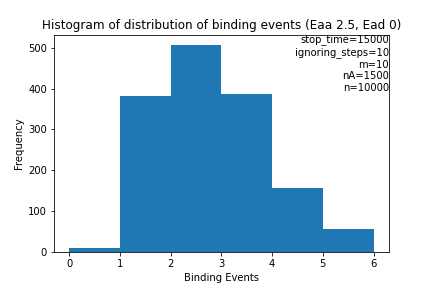
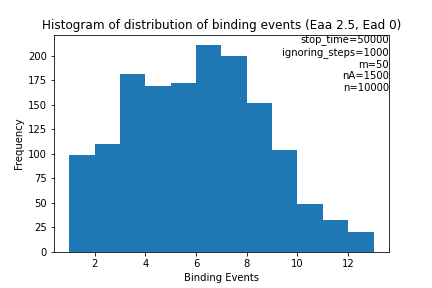
jjjjobN3

diff --git a/MC_simulation_protein_A.py b/MC_simulation_protein_A.py
@@ -21,7 +21,7 @@ ASSUMPTIONS:
 ###PARAMETERS###
 
 alfa = 0.15 #ratio between nA/N 
-N = 3000 #total number of binding sites in the DNA
+N = 6000 #total number of binding sites in the DNA
 nA = int (N*alfa) #number of As
 
 
